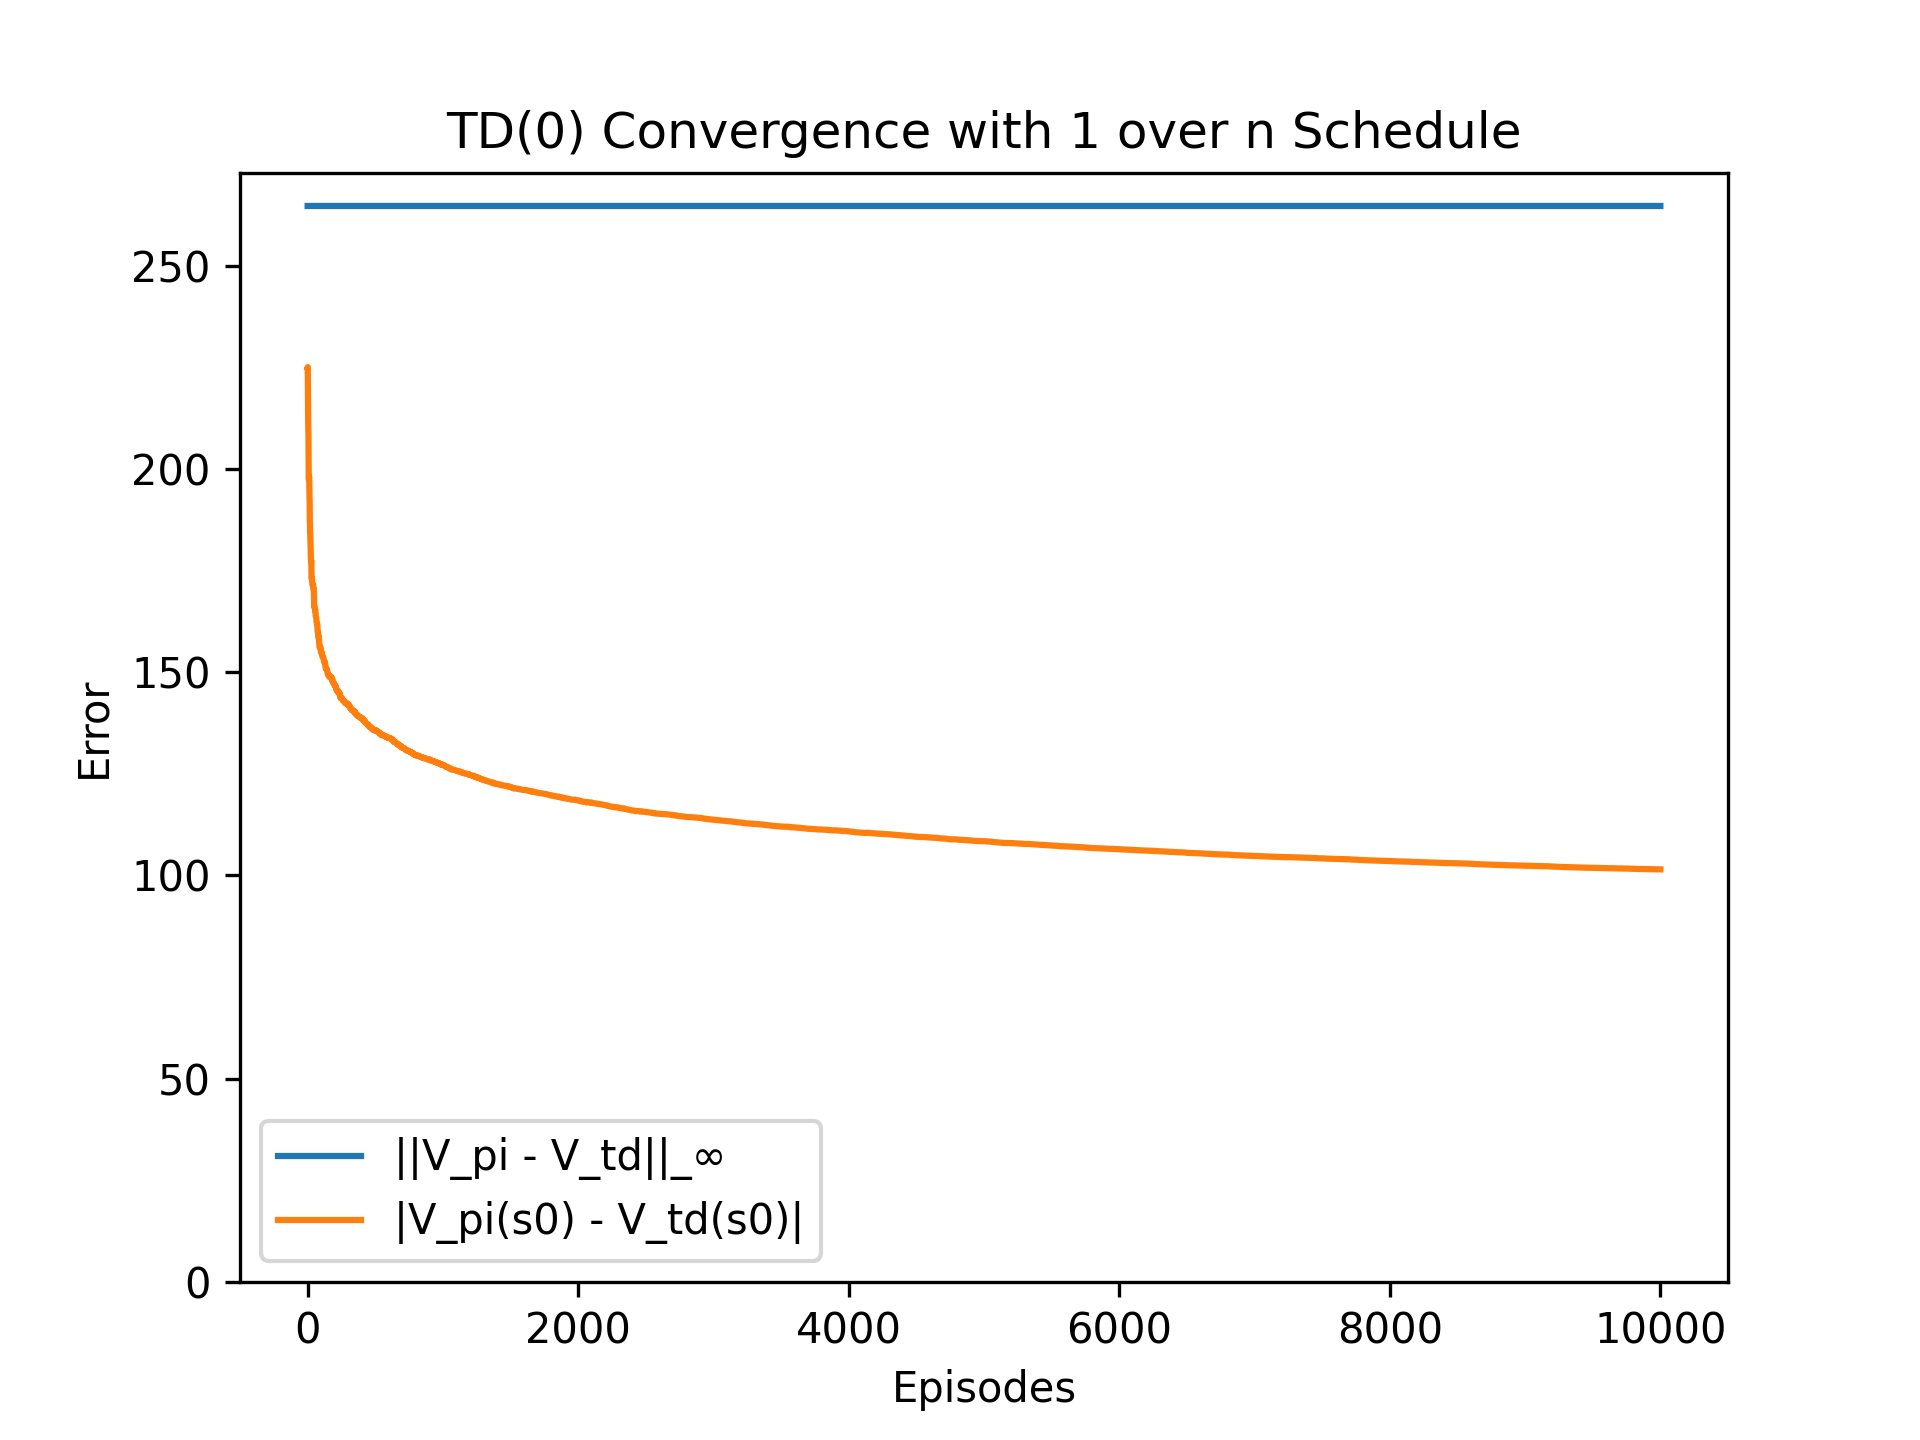
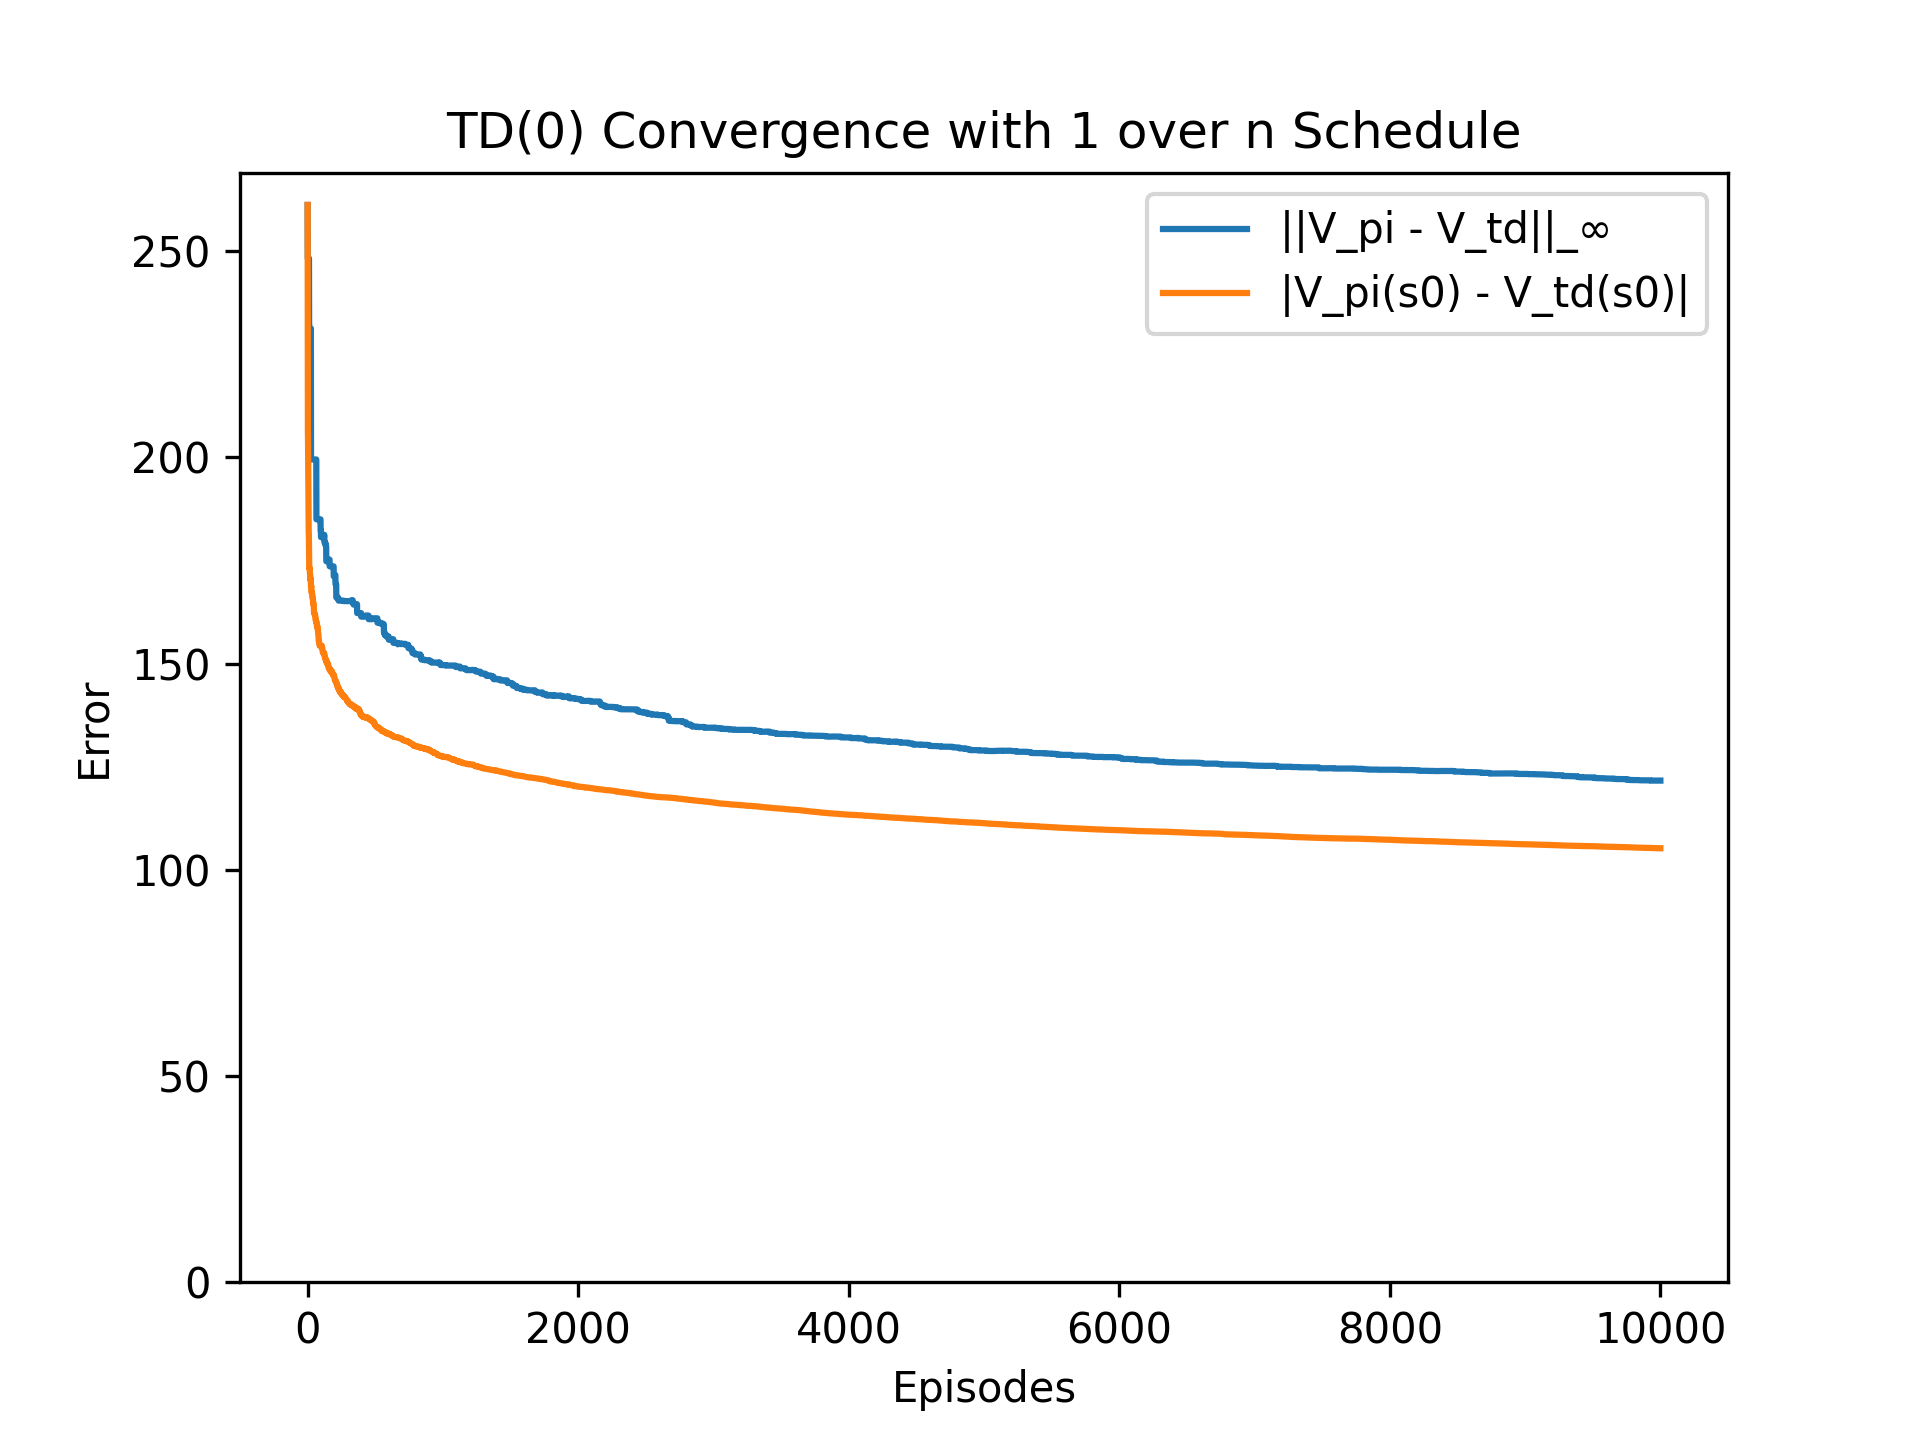
Add epsilon greedy to TD(0)

diff --git a/assignment2/main_planning.py b/assignment2/main_planning.py
@@ -125,7 +125,7 @@ def state_to_index(state):
 def int_to_state(s_idx):
     return [int(bool(s_idx & (1 << i))) for i in range(NUM_JOBS)]
 
-def td0_learn_v_pi_c(env, pi_c, V_pi_c, num_episodes=10000, alpha_schedule=None):
+def td0_learn_v_pi_c(env, pi_c, V_pi_c, num_episodes=10000, alpha_schedule=None, epsilon=0.1):
     s0 = 0
 
     V = np.zeros(NUM_STATES)
@@ -139,7 +139,18 @@ def td0_learn_v_pi_c(env, pi_c, V_pi_c, num_episodes=10000, alpha_schedule=None)
 
         while not done:
             s_idx = state_to_index(state)
-            action = pi_c[s_idx]
+            state_bits = int_to_state(s_idx)
+            available_actions = [i for i in range(NUM_JOBS) if state_bits[i] == 0]
+
+            if not available_actions:
+                break  # terminal state
+
+            # ε-greedy action selection
+            if np.random.rand() < epsilon:
+                action = np.random.choice(available_actions) + 1  # 1-based
+            else:
+                action = pi_c[s_idx]
+
             if action == 0:
                 break
 
@@ -158,6 +169,7 @@ def td0_learn_v_pi_c(env, pi_c, V_pi_c, num_episodes=10000, alpha_schedule=None)
         s0_errors.append(abs(V[s0] - V_pi_c[s0]))
 
     return V, max_errors, s0_errors
+
 
 def q_learning_with_eval(env, V_star, alpha_schedule,num_episodes=5000, epsilon=0.1, eval_interval=100):
     gamma = 1.0
@@ -241,8 +253,11 @@ NUM_JOBS = len(c)
 
 # Build pi_c and compute its value function
 pi_c = build_pi_c(c)
+# print(pi_c)
 V_pi_c = compute_value_function_iterative(pi_c, mu, c)
+# print(V_pi_c)
 optimal_policy, V_optimal, trace = policy_iteration(mu, c, pi_c)
+# print(V_optimal)
 
 # # Plot the values
 # plt.figure(figsize=(10, 5))
@@ -270,23 +285,26 @@ def alpha_const(n): return 0.01
 def alpha_decay(n): return 10.0 / (100 + n)
 
 
-# # Run TD(0)
-# V_td, max_errors, s0_errors = td0_learn_v_pi_c(env, pi_c, V_pi_c, alpha_schedule=alpha_1_over_n)
-# plot_errors(max_errors, s0_errors, title = 'TD(0) Convergence with 1 over n Schedule')
+# Run TD(0)
+V_td, max_errors, s0_errors = td0_learn_v_pi_c(env, pi_c, V_pi_c, alpha_schedule=alpha_1_over_n)
+plot_errors(max_errors, s0_errors, title = 'TD(0) Convergence with 1 over n Schedule')
 
-# V_td2, max_errors2, s0_errors2 = td0_learn_v_pi_c(env, pi_c, V_pi_c, alpha_schedule=alpha_const)
-# plot_errors(max_errors2, s0_errors2, title = 'TD(0) Convergence with Constant Schedule')
+V_td2, max_errors2, s0_errors2 = td0_learn_v_pi_c(env, pi_c, V_pi_c, alpha_schedule=alpha_const)
+plot_errors(max_errors2, s0_errors2, title = 'TD(0) Convergence with Constant Schedule')
 
-# V_td3, max_errors3, s0_errors3 = td0_learn_v_pi_c(env, pi_c, V_pi_c, alpha_schedule=alpha_decay)
-# plot_errors(max_errors3, s0_errors3, title = 'TD(0) Convergence with Decay Schedule')
+V_td3, max_errors3, s0_errors3 = td0_learn_v_pi_c(env, pi_c, V_pi_c, alpha_schedule=alpha_decay)
+plot_errors(max_errors3, s0_errors3, title = 'TD(0) Convergence with Decay Schedule')
 
 
-# Run Q-learning
-Q, max_errors, s0_errors = q_learning_with_eval(env=env, V_star=V_optimal, alpha_schedule=alpha_1_over_n)
-plot_errors(max_errors, s0_errors, title = 'Q-learning Convergence with 1 over n Schedule', label_max='||V* - V_pi_Q||_∞', label_s0='|V*(s0) - argmin Q(s0,a)|')
+# # Run Q-learning
+# Q_test, max_errors_test, s0_errors_test = q_learning_with_eval(env=env, V_star=V_optimal, epsilon=1, alpha_schedule=alpha_1_over_n, eval_interval=10)
+# plot_errors(max_errors_test, s0_errors_test, title = 'test', label_max='||V* - V_pi_Q||_∞', label_s0='|V*(s0) - argmin Q(s0,a)|')
 
-Q, max_errors, s0_errors = q_learning_with_eval(env=env, V_star=V_optimal, alpha_schedule=alpha_const)
-plot_errors(max_errors, s0_errors, title = 'Q-learning Convergence with Constant Schedule', label_max='||V* - V_pi_Q||_∞', label_s0='|V*(s0) - argmin Q(s0,a)|')
+# Q, max_errors, s0_errors = q_learning_with_eval(env=env, V_star=V_optimal, alpha_schedule=alpha_1_over_n, eval_interval=10)
+# plot_errors(max_errors, s0_errors, title = 'Q-learning Convergence with 1 over n Schedule', label_max='||V* - V_pi_Q||_∞', label_s0='|V*(s0) - argmin Q(s0,a)|')
 
-Q, max_errors, s0_errors = q_learning_with_eval(env=env, V_star=V_optimal, alpha_schedule=alpha_decay)
-plot_errors(max_errors, s0_errors, title = 'Q-learning Convergence with Decay Schedule', label_max='||V* - V_pi_Q||_∞', label_s0='|V*(s0) - argmin Q(s0,a)|')
+# Q, max_errors, s0_errors = q_learning_with_eval(env=env, V_star=V_optimal, alpha_schedule=alpha_const)
+# plot_errors(max_errors, s0_errors, title = 'Q-learning Convergence with Constant Schedule', label_max='||V* - V_pi_Q||_∞', label_s0='|V*(s0) - argmin Q(s0,a)|')
+
+# Q, max_errors, s0_errors = q_learning_with_eval(env=env, V_star=V_optimal, alpha_schedule=alpha_decay)
+# plot_errors(max_errors, s0_errors, title = 'Q-learning Convergence with Decay Schedule', label_max='||V* - V_pi_Q||_∞', label_s0='|V*(s0) - argmin Q(s0,a)|')
